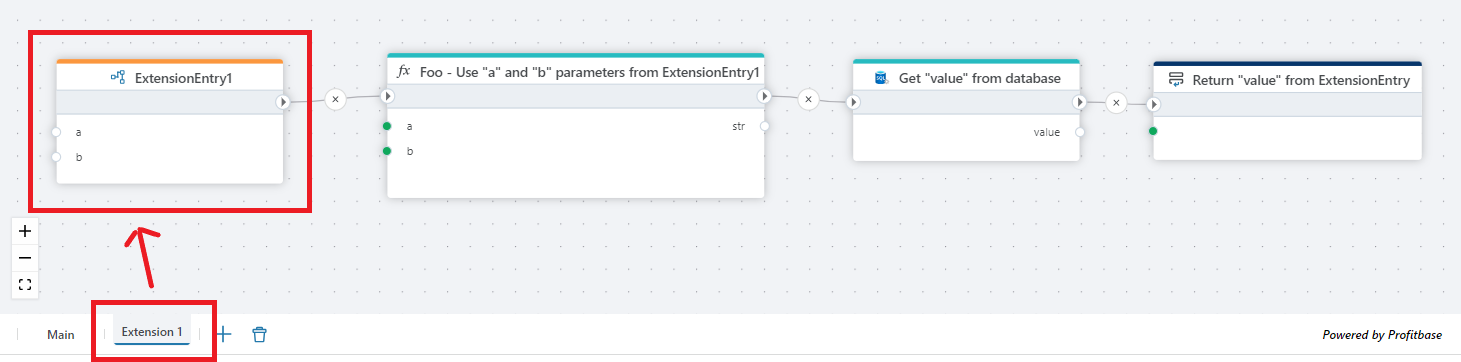
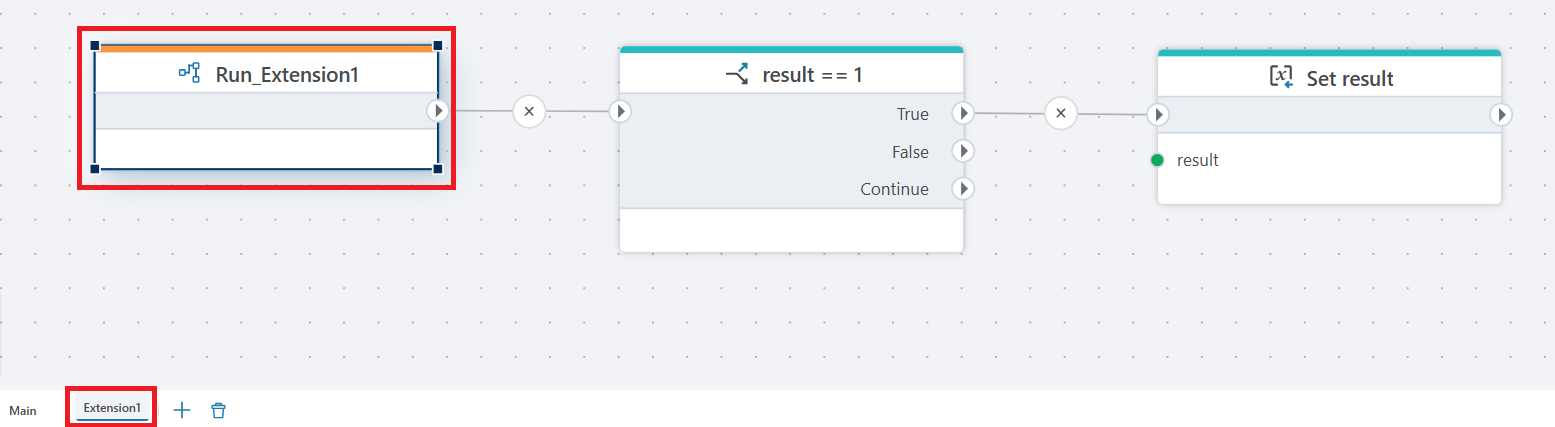
extension entry and ex object method docs, plus some minor fixes

diff --git a/articles/flow/actions/built-in/extension-entry.md b/articles/flow/actions/built-in/extension-entry.md
@@ -9,6 +9,26 @@ You can define any number of parameters, and optionally a return type.
 
 To call the Extension Entry action from another flowchart, use the [Execute object](../built-in/execute-object-method.md) action and select the `This` globally available variable as the object. Then select the name of the Extension entry as the method, and specify arguments to the parameters (if any).
 
+![img](../../../../images/flow/call-extension-entry.png)
+
+**Example** ![img](../../../../images/strz.jpg)  
+This Flow demonstrates how to expose reusable logic through an Extension Entry and how to execute it from a main Flow while enforcing a strict result contract.
+
+The Main flow starts by declaring a result variable and is triggered via a [Flow Hook](flow-hook.md). It then invokes the extension by using the [Execute object method](execute-object-method.md), calling the **ExtensionEntry** method on the current Flow object (This). The return value from the extension is stored in the result variable.
+
+After the extension call completes, the Flow evaluates the returned status code using a condition (result == 1). If this condition is met, the Flow deliberately fails by throwing an exception using the Throw exception action. This allows the main Flow to explicitly handle error states reported by the extension.
+
+The Extension flow defines its public API using the Extension Entry action. Inside the extension, the business logic is executed and its outcome is evaluated. When the operation completes successfully (result == 1), the extension explicitly sets the final return value using the Set result action, which is then propagated back to the calling Flow.
+
+This pattern is useful when building reusable extensions that return standardized status codes, allowing calling Flows to centrally enforce success and error handling logic.
+<br/>
+
+![img](../../../../images/flow/hook-handlerNU.png)
+<br/>
+
+![img](../../../../images/flow/extension-entry.png)
+<br/>
+
 ## Properties
 
 | Name               | Type     | Description |
@@ -20,6 +40,3 @@ To call the Extension Entry action from another flowchart, use the [Execute obje
 |  Description    | Optional | Provides additional information about this flowchart entry. |
 
 
-![img](../../../../images/flow/extension-entry.png)
-
-![img](../../../../images/flow/call-extension-entry.png)

diff --git a/articles/flow/actions/built-in/execute-object-method.md b/articles/flow/actions/built-in/execute-object-method.md
@@ -6,6 +6,25 @@ This is equivalent to invoking an instance method of an object. If the method ha
 
 [Related reading: Introduction to classes in .NET](https://learn.microsoft.com/en-us/dotnet/csharp/fundamentals/tutorials/classes)
 
+![img](../../../../images/flow/call-extension-entry.png)
+
+**Example** ![img](../../../../images/strz.jpg)  
+This Flow demonstrates how to expose reusable logic through an Extension Entry and how to execute it from a main Flow while enforcing a strict result contract.
+
+The Main flow starts by declaring a result variable and is triggered via a [Flow Hook](flow-hook.md). It then invokes the extension by using the **Execute object method**, calling the [ExtensionEntry](extension-entry.md) method on the current Flow object (This). The return value from the extension is stored in the result variable.
+
+After the extension call completes, the Flow evaluates the returned status code using a condition (result == 1). If this condition is met, the Flow deliberately fails by throwing an exception using the Throw exception action. This allows the main Flow to explicitly handle error states reported by the extension.
+
+The Extension flow defines its public API using the Extension Entry action. Inside the extension, the business logic is executed and its outcome is evaluated. When the operation completes successfully (result == 1), the extension explicitly sets the final return value using the Set result action, which is then propagated back to the calling Flow.
+
+This pattern is useful when building reusable extensions that return standardized status codes, allowing calling Flows to centrally enforce success and error handling logic.
+<br/>
+
+![img](../../../../images/flow/hook-handlerNU.png)
+<br/>
+
+![img](../../../../images/flow/extension-entry.png)
+<br/>
 
 ## Properties
 

diff --git a/articles/flow/actions/built-in/declare-variables.md b/articles/flow/actions/built-in/declare-variables.md
@@ -7,6 +7,16 @@ Declares multiple variables simultaneously to store data while the Flow is execu
 
 ![image](../../../../images/flow/declare-variables.png)
 
+**Example** ![img](../../../../images/strz.jpg)  
+This Flow imports data from an Excel file stored in Azure Blob Storage and inserts it into a SQL table.
+
+The Flow starts by declaring variables for the blob name (BlobName) and the destination SQL table (ResultTable).
+It then reads the specified blob from Azure Blob Storage, retrieving the Excel file contents.
+Next, the file content is passed to an Excel Reader, which opens a specific worksheet (in this case, estimates) and converts the rows into a structured data source.
+Finally, the parsed Excel data is inserted into a SQL table using the Insert SQL Data action, which writes the rows and returns the number of affected records.
+
+In short, this Flow automates the process of loading Excel data from Blob Storage into a SQL database, making it suitable for ETL scenarios such as importing estimates, reports, or batch data into a relational database. 
+
 [Read more about variables in .NET here](https://learn.microsoft.com/en-us/dotnet/csharp/language-reference/language-specification/variables)
 
 ## Properties
@@ -16,3 +26,6 @@ Declares multiple variables simultaneously to store data while the Flow is execu
 | Title                     | Optional  | The title or name of the action.                                                 |
 | Variables   | Required  | Defined variables.                                  |
 | Description     | Optional  | A brief description of the variable's purpose.            |
+
+
+![image](../../../../images/flow/declare-variables2.png)
